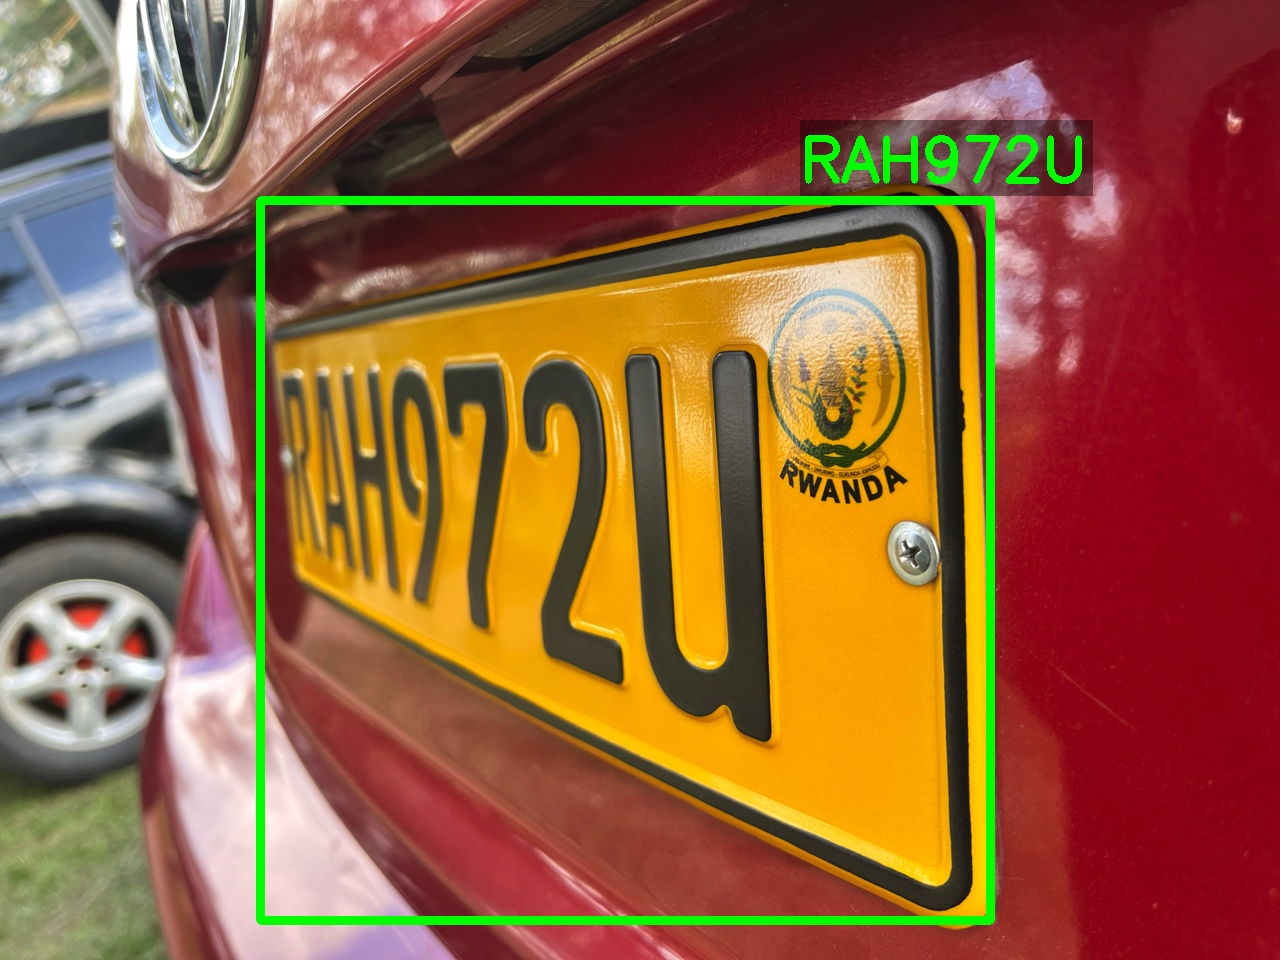
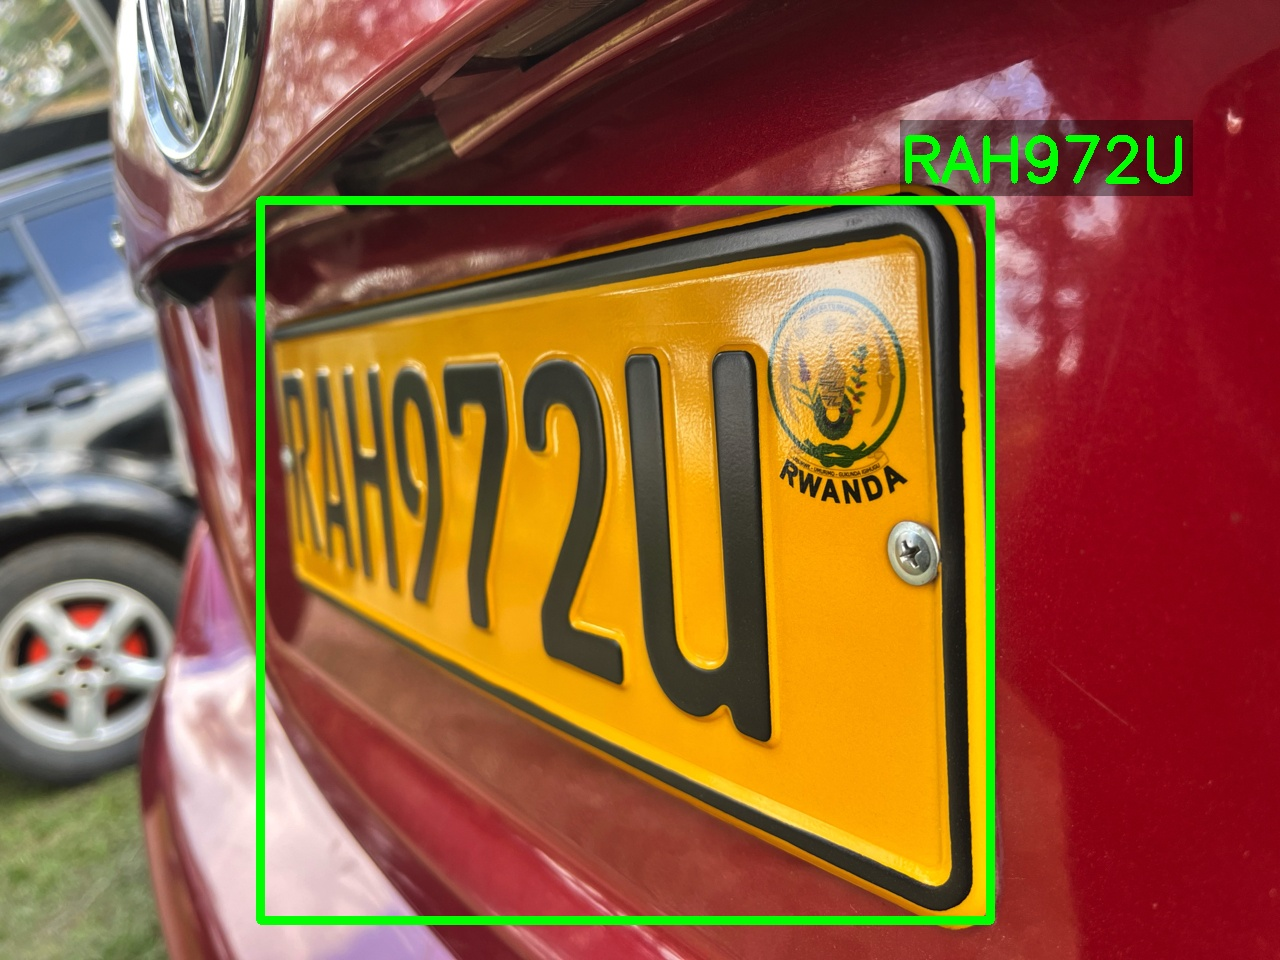
Modified the position

Changed region(s): [[0.625, 0.125, 0.9375, 0.2188]]

diff --git a/draw_rectangle_and_add_text.py.py b/draw_rectangle_and_add_text.py.py
@@ -17,7 +17,7 @@ text_color = (0, 255, 0)
 (text_width, text_height), baseline = cv2.getTextSize(
     text, font, font_scale, font_thickness
 )
-x, y = 800, 180
+x, y = 900, 180
 
 # Calculate the background rectangle coordinates
 background_start = (x, y - text_height - 15)
